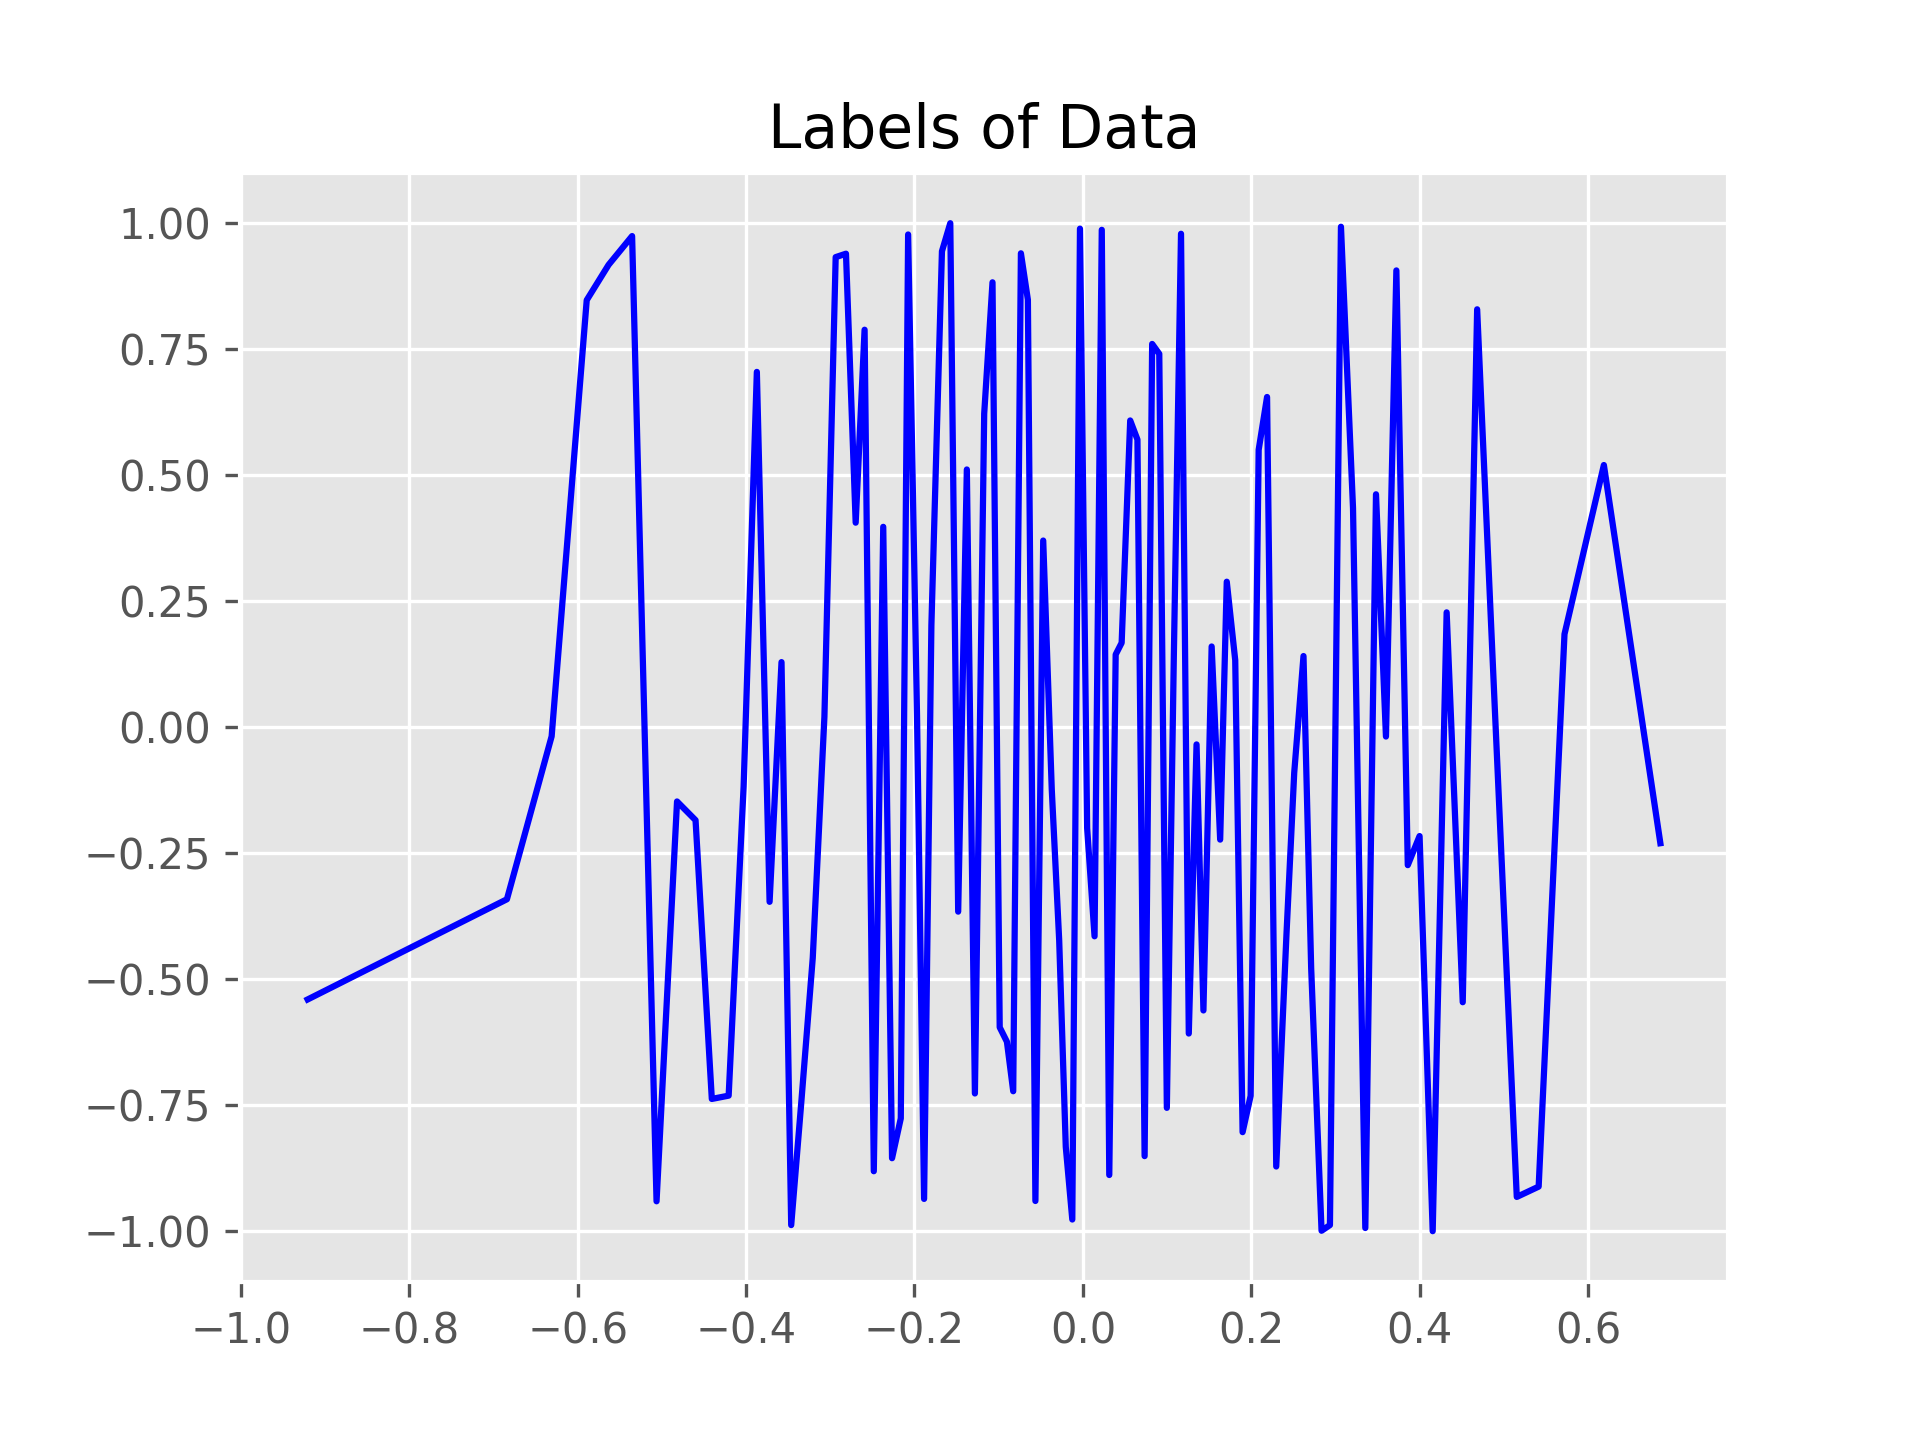
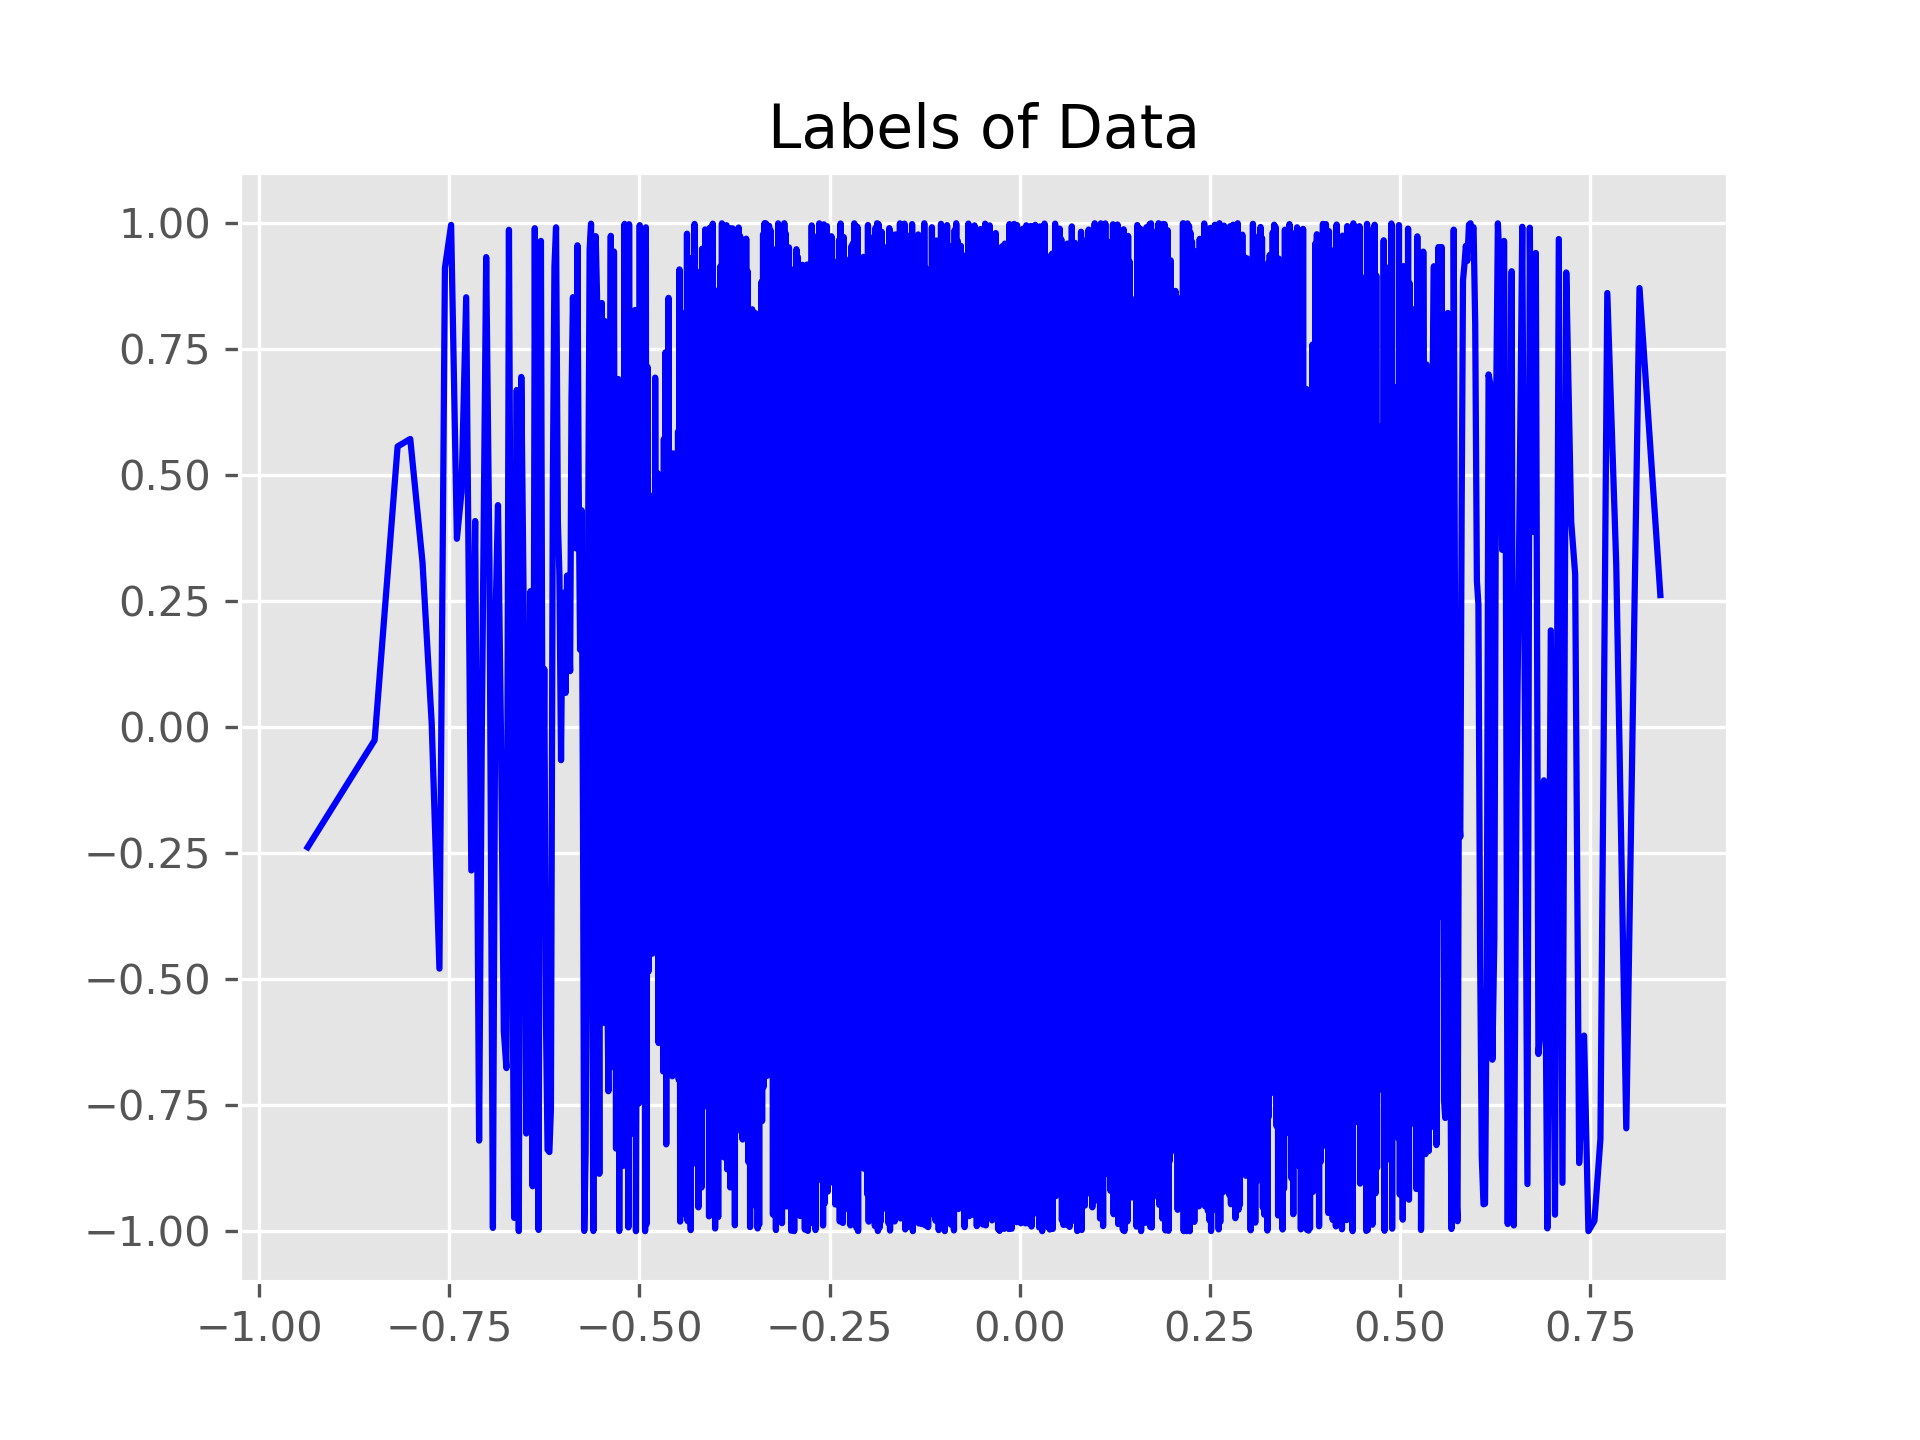
use a large dataset

diff --git a/depth_sep/generate_data.py b/depth_sep/generate_data.py
@@ -147,7 +147,7 @@ def eldan(N_const=0.1, NSUPP=10000, mol_const=100, c_const=80, seed=0):
     with open('data/eldan-smooth-test-label.npy', 'bw') as f:
         np.save(f, y_mol[int(0.8*len(x_sample)):])
 
-def daniely(N=10000, halfD=10, seed=0):
+def daniely(N=200000, halfD=10, seed=0):
     np.random.seed(seed)
     X1 = np.random.randn(N, halfD)
     X1 = X1 / np.linalg.norm(X1, axis=1, keepdims=True)
